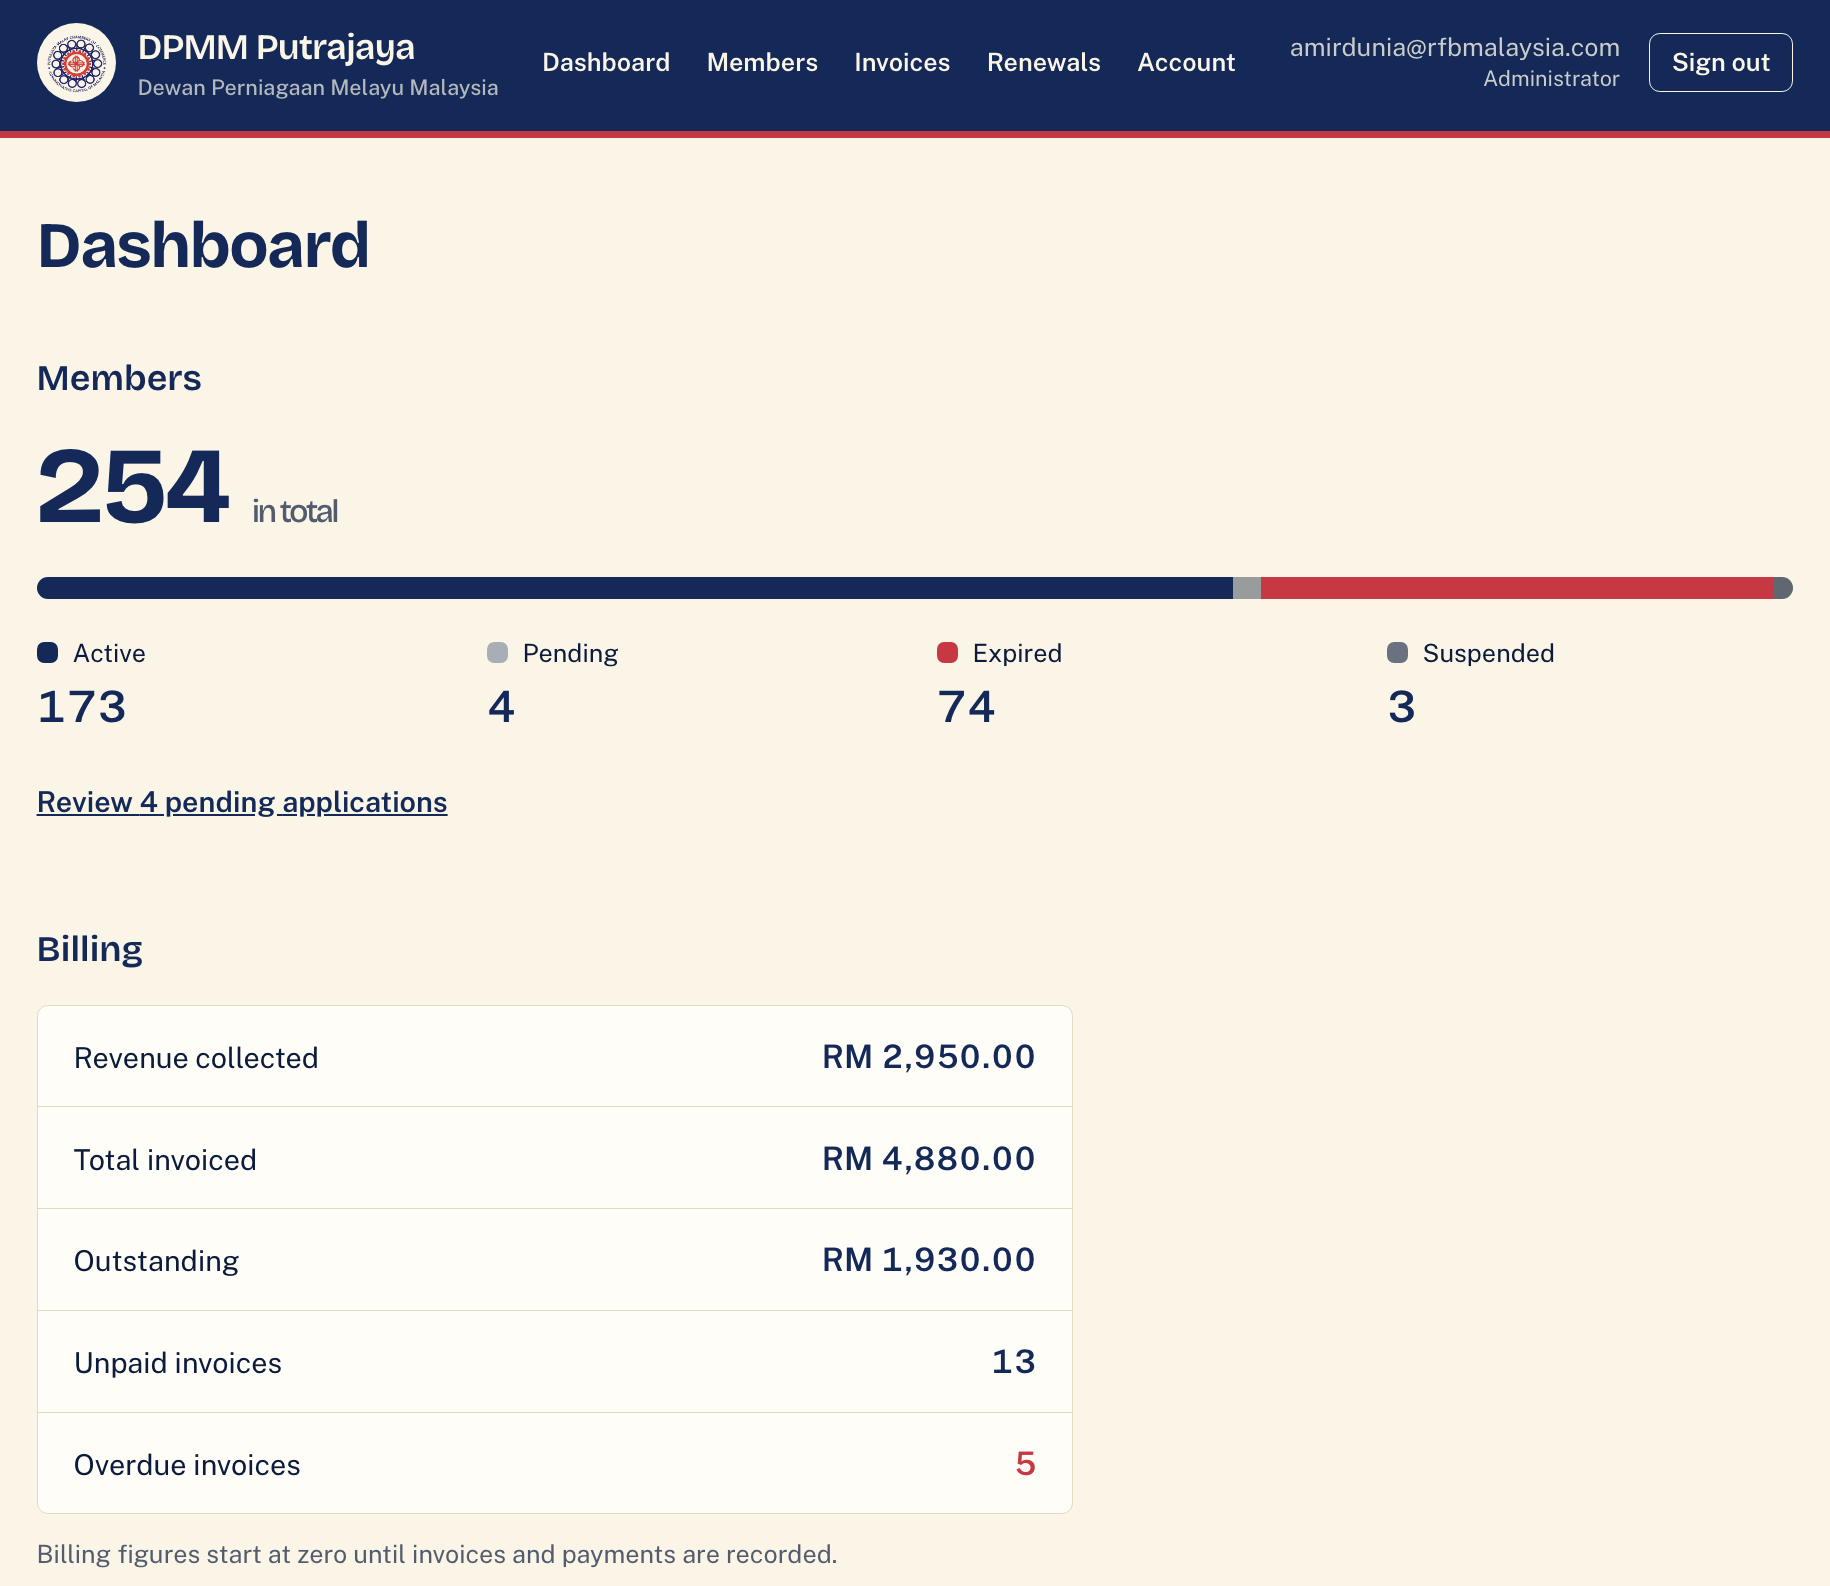
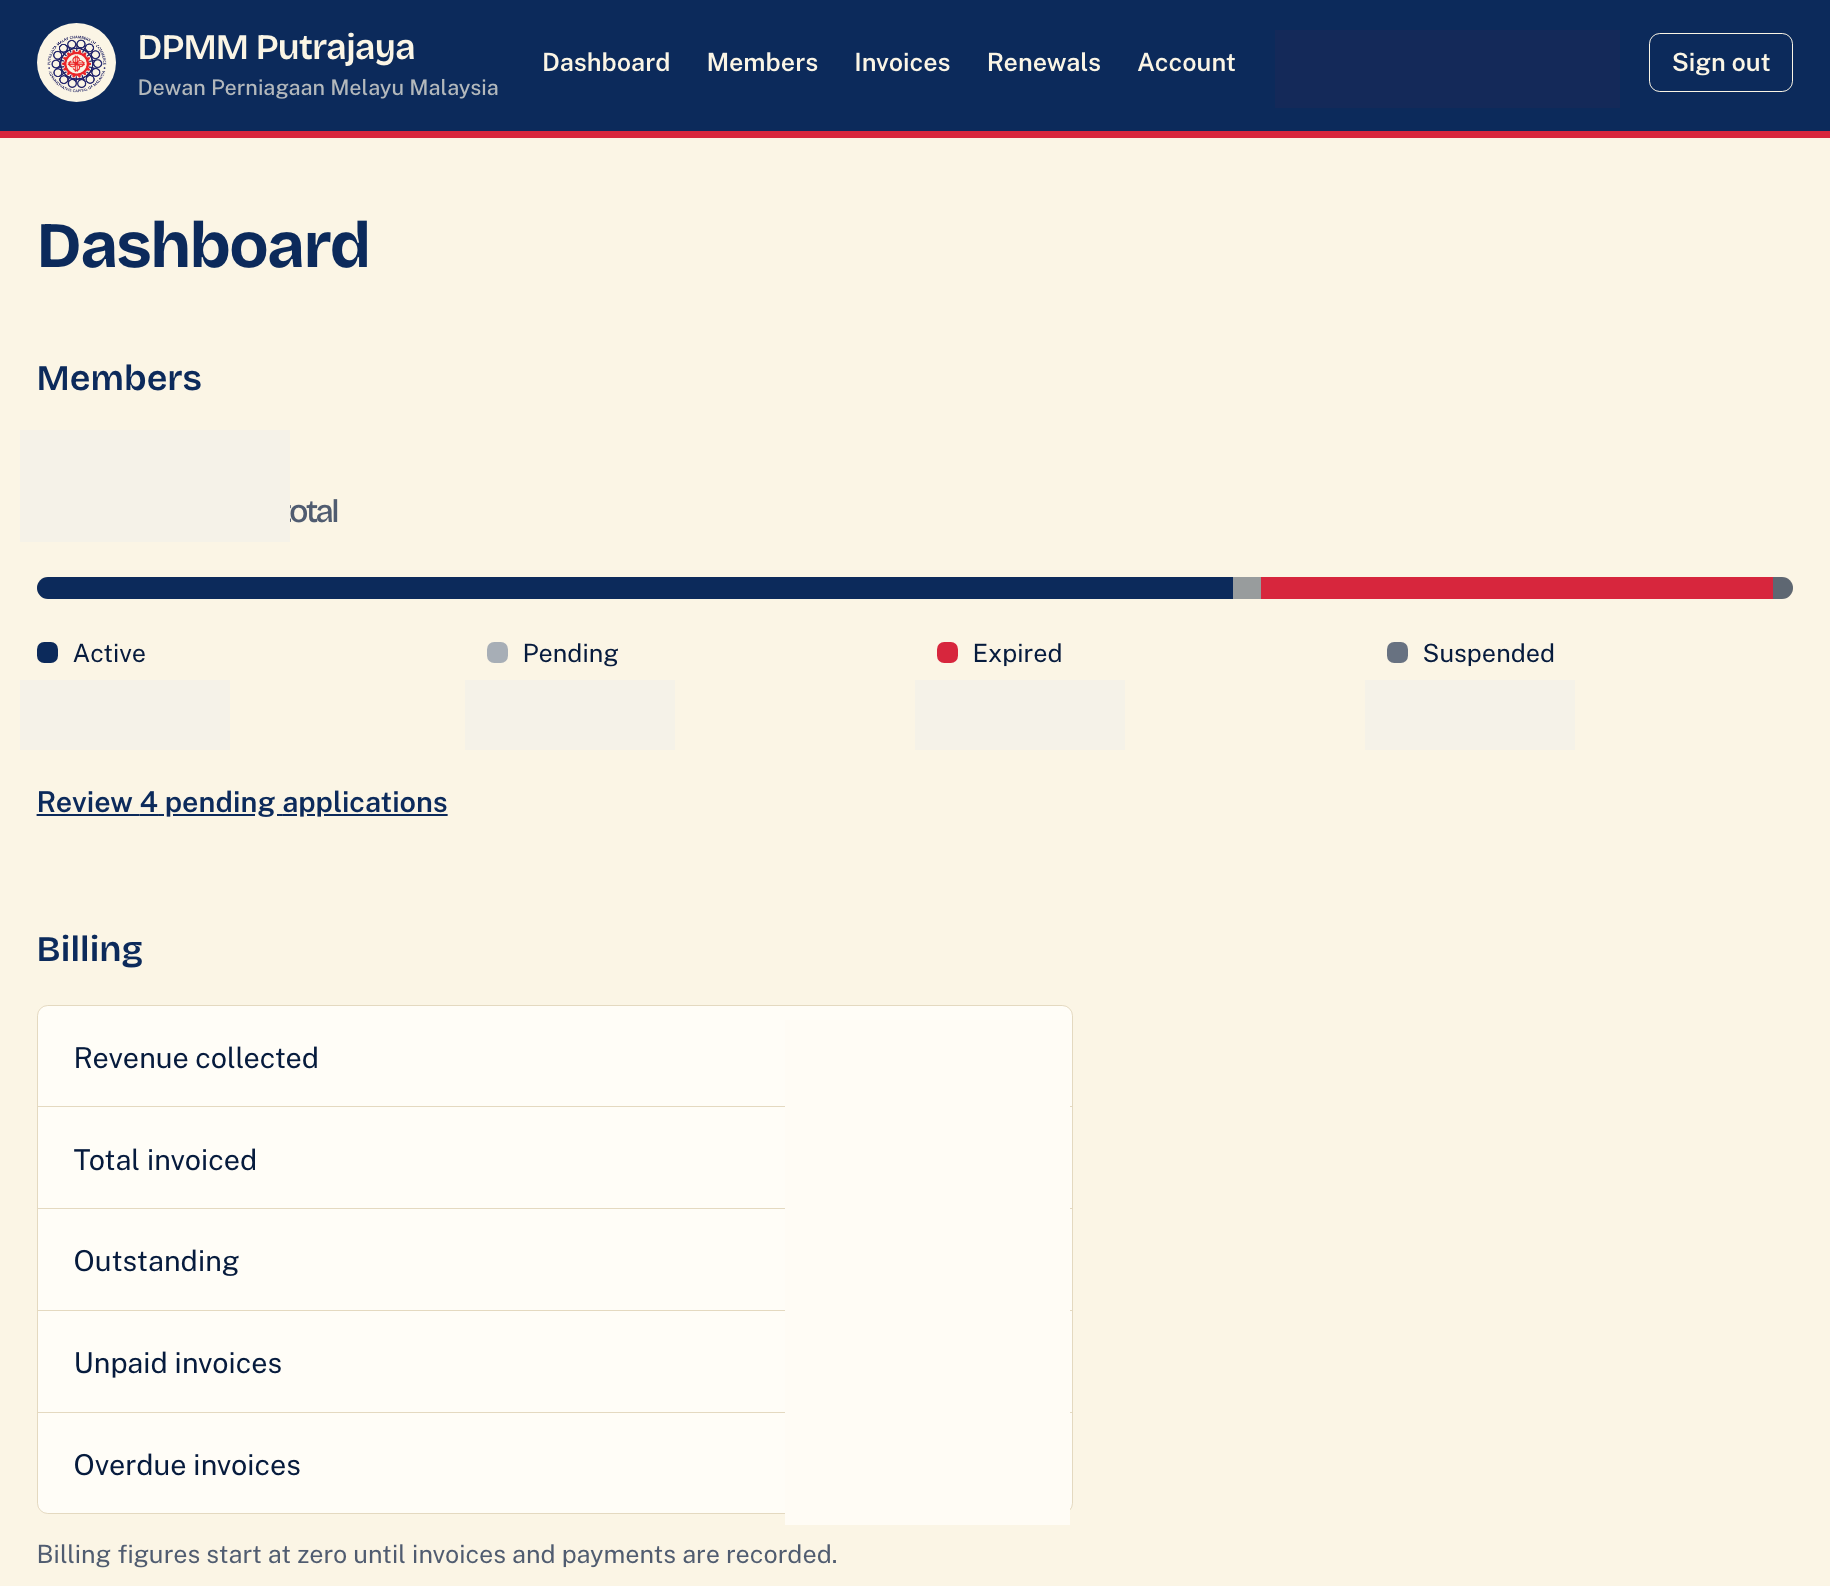
Add custom membership app solution

diff --git a/public/services.html b/public/services.html
@@ -6,7 +6,7 @@
             <p class="text-slate-600 mt-4 leading-relaxed">From the field asset to the executive dashboard, RFB Malaysia connects proven European technology with local technical engagement.</p>
         </div>
 
-        <div class="grid grid-cols-1 md:grid-cols-3 gap-8">
+        <div class="grid grid-cols-1 md:grid-cols-2 xl:grid-cols-4 gap-8">
             <div class="bg-slate-50 border border-slate-200 p-8 rounded-xl hover:shadow-xl transition duration-300 group">
                 <div class="w-14 h-14 bg-blue-100 text-blue-600 rounded-lg flex items-center justify-center text-2xl font-bold mb-6 group-hover:bg-blue-600 group-hover:text-white transition">
                     <i class="fa-solid fa-code"></i>
@@ -38,6 +38,53 @@
                     Focused technology solutions for hospitality and infrastructure protection projects where reliability and standards matter.
                 </p>
                 <ul class="text-sm text-slate-700 space-y-2"><li><i class="fa-solid fa-check text-blue-600 mr-2"></i>Hotel IPTV aggregation solutions</li><li><i class="fa-solid fa-check text-blue-600 mr-2"></i>IPTV and SMATV for hotels, hospitals and MDUs</li><li><i class="fa-solid fa-check text-blue-600 mr-2"></i>Lightning protection deployment to IEC 62305</li></ul>
+            </div>
+
+            <div class="bg-slate-50 border border-slate-200 p-8 rounded-xl hover:shadow-xl transition duration-300 group">
+                <div class="w-14 h-14 bg-blue-100 text-blue-600 rounded-lg flex items-center justify-center text-2xl font-bold mb-6 group-hover:bg-blue-600 group-hover:text-white transition">
+                    <i class="fa-solid fa-laptop-code"></i>
+                </div>
+                <h4 class="text-xl font-bold text-slate-900 mb-3">Software Apps Development</h4>
+                <p class="text-slate-600 text-sm leading-relaxed mb-4">
+                    Custom web apps and installable PWAs that bring membership records, applications, renewals and billing into one secure, easy-to-use workspace.
+                </p>
+                <ul class="text-sm text-slate-700 space-y-2"><li><i class="fa-solid fa-check text-blue-600 mr-2"></i>Member records and application workflows</li><li><i class="fa-solid fa-check text-blue-600 mr-2"></i>Invoices, receipts and payment follow-ups</li><li><i class="fa-solid fa-check text-blue-600 mr-2"></i>Renewal reminders and role-based access</li></ul>
+            </div>
+        </div>
+
+        <div class="mt-20 border-y border-slate-200 bg-slate-50 py-16">
+            <div class="max-w-3xl mx-auto text-center px-4 sm:px-6 lg:px-8">
+                <p class="text-xs font-bold text-blue-600 uppercase tracking-widest mb-3">Custom web apps &amp; PWAs</p>
+                <h4 class="text-3xl font-extrabold text-slate-900 tracking-tight">Membership operations, brought together.</h4>
+                <p class="text-slate-600 mt-4 leading-relaxed">Purpose-built for NGOs, chambers and member-based organisations, our secure portals simplify the work behind every membership—from first application to renewal and payment reconciliation.</p>
+            </div>
+
+            <div class="max-w-7xl mx-auto px-4 sm:px-6 lg:px-8 mt-10 grid grid-cols-1 md:grid-cols-3 gap-6">
+                <figure class="bg-white border border-slate-200 rounded-xl p-4 shadow-sm">
+                    <img src="assets/sistem1.png" alt="Membership dashboard preview with member and billing details redacted" loading="lazy" class="w-full h-64 object-contain bg-slate-100 rounded-lg" />
+                    <figcaption class="pt-4"><h5 class="font-bold text-slate-900">One clear operational view</h5><p class="text-sm text-slate-600 mt-1">Review membership status, applications and billing activity from a central dashboard.</p></figcaption>
+                </figure>
+                <figure class="bg-white border border-slate-200 rounded-xl p-4 shadow-sm">
+                    <img src="assets/sistem2.png" alt="Branded member portal sign-in preview with account details redacted" loading="lazy" class="w-full h-64 object-contain bg-slate-100 rounded-lg" />
+                    <figcaption class="pt-4"><h5 class="font-bold text-slate-900">Secure access on any device</h5><p class="text-sm text-slate-600 mt-1">Give administrators and members a simple, branded portal that works in a browser.</p></figcaption>
+                </figure>
+                <figure class="bg-white border border-slate-200 rounded-xl p-4 shadow-sm">
+                    <img src="assets/sistem3.png" alt="Automated email queue preview with member details redacted" loading="lazy" class="w-full h-64 object-contain bg-slate-100 rounded-lg" />
+                    <figcaption class="pt-4"><h5 class="font-bold text-slate-900">Timely member communications</h5><p class="text-sm text-slate-600 mt-1">Coordinate application updates, payment receipts and renewal reminders.</p></figcaption>
+                </figure>
+            </div>
+
+            <div class="max-w-5xl mx-auto px-4 sm:px-6 lg:px-8 mt-10">
+                <div class="grid grid-cols-1 md:grid-cols-3 gap-6 text-sm text-slate-700">
+                    <p><i class="fa-solid fa-list-check text-blue-600 mr-2"></i>Keep member records, fees and renewal history organised.</p>
+                    <p><i class="fa-solid fa-file-invoice-dollar text-blue-600 mr-2"></i>Track invoices, receipts and overdue balances together.</p>
+                    <p><i class="fa-solid fa-bell text-blue-600 mr-2"></i>Automate follow-ups with practical safeguards against stale messages.</p>
+                </div>
+                <div class="text-center mt-8">
+                    <a href="mailto:amirdunia@rfbmalaysia.com?subject=Custom%20web%20app%20demonstration" class="inline-flex items-center bg-blue-600 hover:bg-blue-500 text-white font-semibold px-6 py-3 rounded-lg transition shadow-sm">
+                        Discuss a custom app <i class="fa-solid fa-arrow-right ml-3" aria-hidden="true"></i>
+                    </a>
+                </div>
             </div>
         </div>
 

diff --git a/public/contact.html b/public/contact.html
@@ -5,7 +5,7 @@
                 <h2 class="text-xs font-bold text-blue-600 uppercase tracking-widest mb-3">Get In Touch</h2>
                 <h3 class="text-3xl font-extrabold text-slate-900 tracking-tight mb-6">Talk to a technical partner who understands infrastructure.</h3>
                 <p class="text-slate-600 mb-8 leading-relaxed">
-                    Tell us what you are planning: OSS/DCIM software, fiber network documentation, AXING distribution hardware, hotel IPTV or lightning protection. Our team responds within 1 business day.
+                    Tell us what you are planning: infrastructure software, custom web apps, fiber network documentation, AXING distribution hardware, hotel IPTV or lightning protection. Our team responds within 1 business day.
                 </p>
                 <div class="space-y-4 text-slate-700">
                     <a href="mailto:sales@rfbmalaysia.com" class="flex items-center space-x-4 hover:text-blue-600 transition">
@@ -44,7 +44,7 @@
                     </div>
                     <div>
                         <label class="block text-sm font-semibold text-slate-700 mb-2">What are you looking for?</label>
-                        <select class="w-full px-4 py-3 rounded-lg border border-slate-300 focus:outline-none focus:ring-2 focus:ring-blue-600 focus:border-transparent text-sm"><option>FNT Software</option><option>AXING Hardware</option><option>Hotel IPTV</option><option>Lightning Protection</option><option>Other</option></select>
+                        <select class="w-full px-4 py-3 rounded-lg border border-slate-300 focus:outline-none focus:ring-2 focus:ring-blue-600 focus:border-transparent text-sm"><option>FNT Software</option><option>Software Apps Development</option><option>AXING Hardware</option><option>Hotel IPTV</option><option>Lightning Protection</option><option>Other</option></select>
                     </div>
                     <div>
                         <label class="block text-sm font-semibold text-slate-700 mb-2">Project Details / Message</label>

diff --git a/README.md b/README.md
@@ -1,6 +1,6 @@
 # RFB Malaysia Website
 
-Corporate landing page for RFB Malaysia Sdn. Bhd., built from static HTML fragments and deployed on Vercel.
+Corporate landing page for RFB Malaysia Sdn. Bhd., built from static HTML fragments and deployed on Vercel. Solutions include telecom infrastructure technology and custom web apps/PWAs for membership organisations.
 
 ## Project Structure
 
